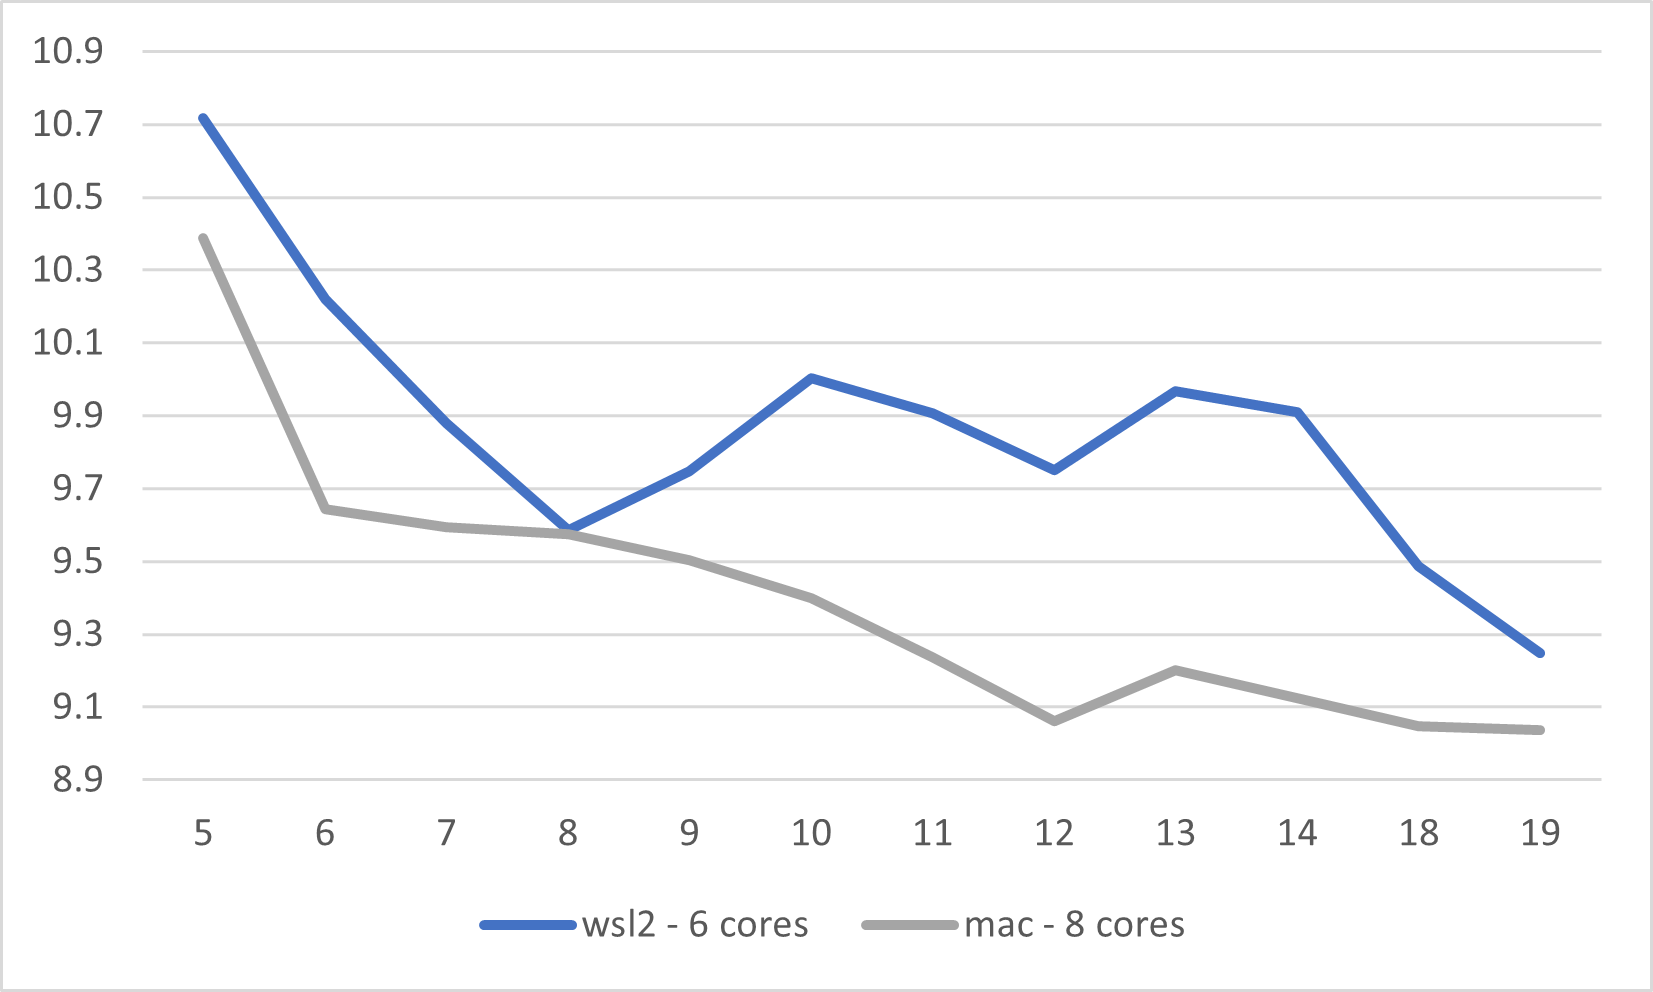
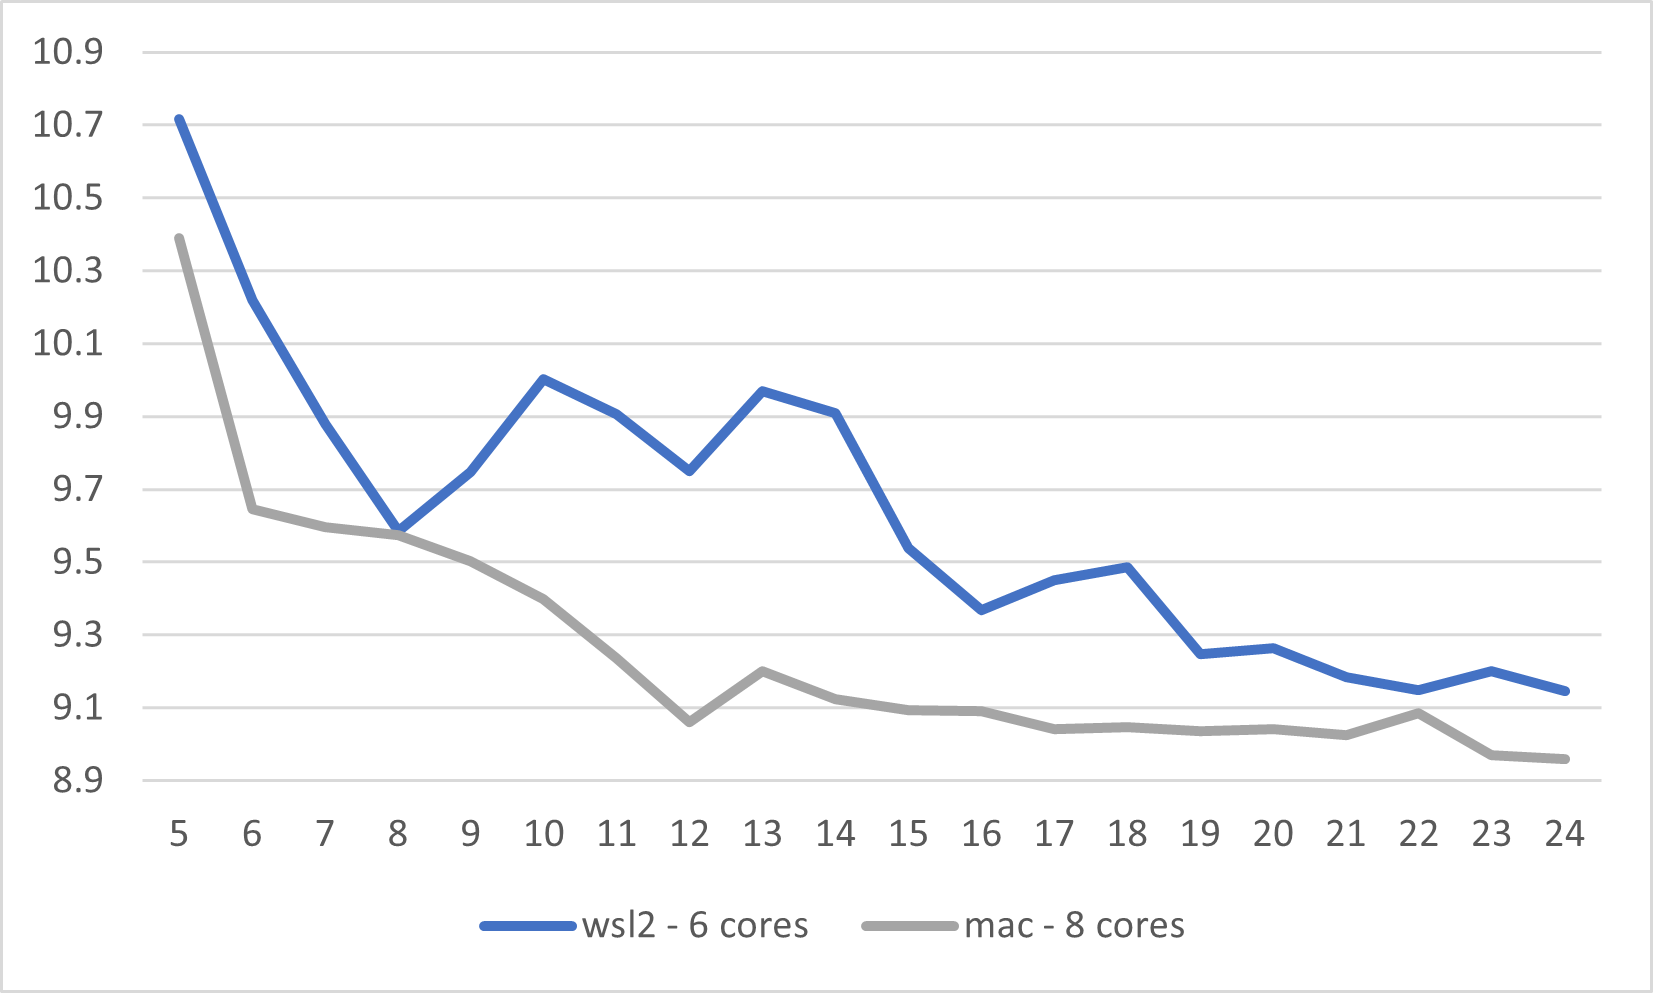
improve attempt 2

diff --git a/content/posts/parallelism_in_go_part_2.md b/content/posts/parallelism_in_go_part_2.md
@@ -82,9 +82,9 @@ I should also note at this point, that I was paying close attention to Dave Chet
 
 The results surprised me a little. Yes execution time decreased as you increased goroutine workers. However I was expecting performance to decrease after workers surpassed the number of logical CPUs on each machine. In fact the opposite happened: as workers surpassed logical CPUs performance improved! What's more is that the result for the Mac was showing that the best result was when workers was 8 which was half the number of lofical processors! This was a very weird result and I was puzzled by it.
 
-## Experiment 2
+## Attempt 2
 
-I suspected that the test wasn't intense enough so it wasn't pushing the CPU to its maximum capacity. Perhaps when workers were increased beyond logical processors, although theoretically there shouldn't be more throughput due to saturating CPU resources, there was a chance that the CPU was actually turboing at this time, leading to better performance. Modern CPUs are lazy and typically run at a slower clock speed when there isn't much work to do. This is to save power and increase the life of the CPU. This means that unless you are really pushing the CPU to its limits, you may not get the most out of it. With this in mind, I decided to run the experiment again but this time make the CPU do more work!
+I wanted to be sure that I wasn't seeing these results due to the "lazy CPU" effect mentioned earlier. I theorized that perhaps the test wasn't really pushing the CPU to its limits and only when more work was created (by increasing the goroutines), the CPU actually decided to work harder. To ensure this wasn't the case, I increased the work units and ran the test again, hoping to see my original hypothesis which was that performance should not get better once the workers surpassed the number of logical CPUs.
 
 ```diff
 func BenchmarkDoCPUBoundWorkV2(b *testing.B) {
@@ -95,15 +95,19 @@ func BenchmarkDoCPUBoundWorkV2(b *testing.B) {
 }
 ```
 
-Running the tests again these are the results I saw. I only tested these on my Mac and WSL:
+I ran the tests again but this time just on my Mac and WSL environments:
 
 ![](/images/cpubound3.png)
 ![](/images/cpubound4.png)
 
-Like before, I observed a decrease in execution time as the workers were increased. Once again this was to be expected. The mac result seemed to make more sense now too because unlike the previous results, were execution time increased after 8 workers, this time around it followed the WSL results and trended downwards.
+The results were better. This time I saw that the execution time for the Mac tests didn't increase after 8 workers. However I was still puzzled why performance was getting better after surpassing the number of logical CPUs. Specifically the workers = 24 result was 240ms faster than than the workers = 12 result (1.12% faster).
 
-The problem was however I was still seeing results where workers > logical processors out performed workers = logical processors.
-It was at this point I turned to cpu/memory profiles and execution traces to find the answers.
+At this point I thought it might be a good idea to look at CPU and Memory profiles as well as execution traces.
+
+```
+go test -cpuprofile=wsl-cpu-12.out -benchmem -memprofile=wsl-mem-12.out -run=^$$ -bench ^BenchmarkDoCPUBoundWorkV2/workers_12$$ .
+go test -cpuprofile=wsl-cpu-24.out -benchmem -memprofile=wsl-mem-24.out -run=^$$ -bench ^BenchmarkDoCPUBoundWorkV2/workers_24$$ .
+```
 
 After comparing several CPU traces I didn't find anything particularly interesting.
 However the memory trace was telling me something. There were huge byte array allocations in my code. Over the course of the test the application allocated over 16Gb of memory. Obviously 16Gb wasn't live the whole time (coz it would have been cleaned up by the GC)... but it led me to think my results could be being impacted by the GC.
